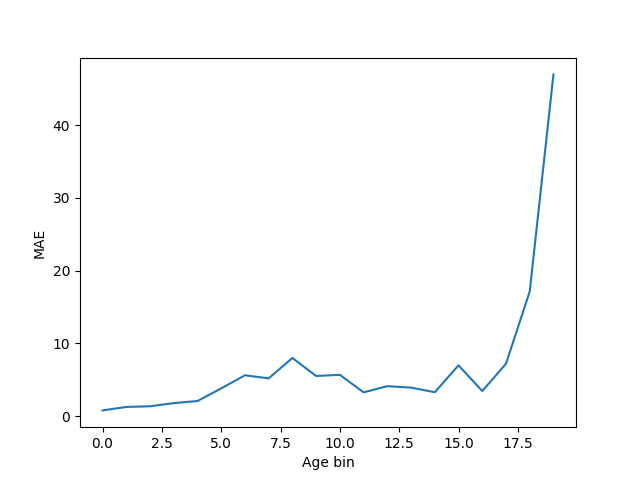
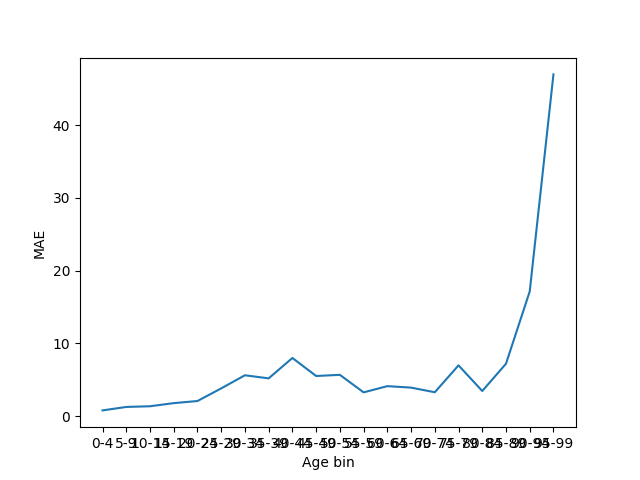
wip

Changed region(s): [[0.1562, 0.9062, 0.9062, 0.9375]]

diff --git a/plot_results.py b/plot_results.py
@@ -1,6 +1,7 @@
 import argparse
 from main import SCRIPT_DIR
 import os
+import shutil
 
 import matplotlib.pyplot as plt
 import numpy as np
@@ -25,15 +26,19 @@ def main():
     plt.ylabel("MAE")
     plt.plot(range(n_epochs), train_losses, label="Training loss")
     plt.plot(range(n_epochs), val_losses, label="Validation loss")
+    plt.legend()
     plt.savefig(f"{figures_dir}/train_and_val_losses_over_time.png")
     plt.clf()
 
     n_bins = len(val_losses_per_bin)
+    bins = [f"{5*i}-{5*i+4}" for i in range(n_bins)]
     plt.xlabel("Age bin")
     plt.ylabel("MAE")
-    plt.plot(range(n_bins), val_losses_per_bin)
+    plt.plot(bins, val_losses_per_bin)
     plt.savefig(f"{figures_dir}/val_losses_per_bin.png")
     plt.clf()
+
+    shutil.copyfile(f"{results_dir}/config.json", f"{figures_dir}/config.json")
 
 if __name__ == '__main__':
     main()
